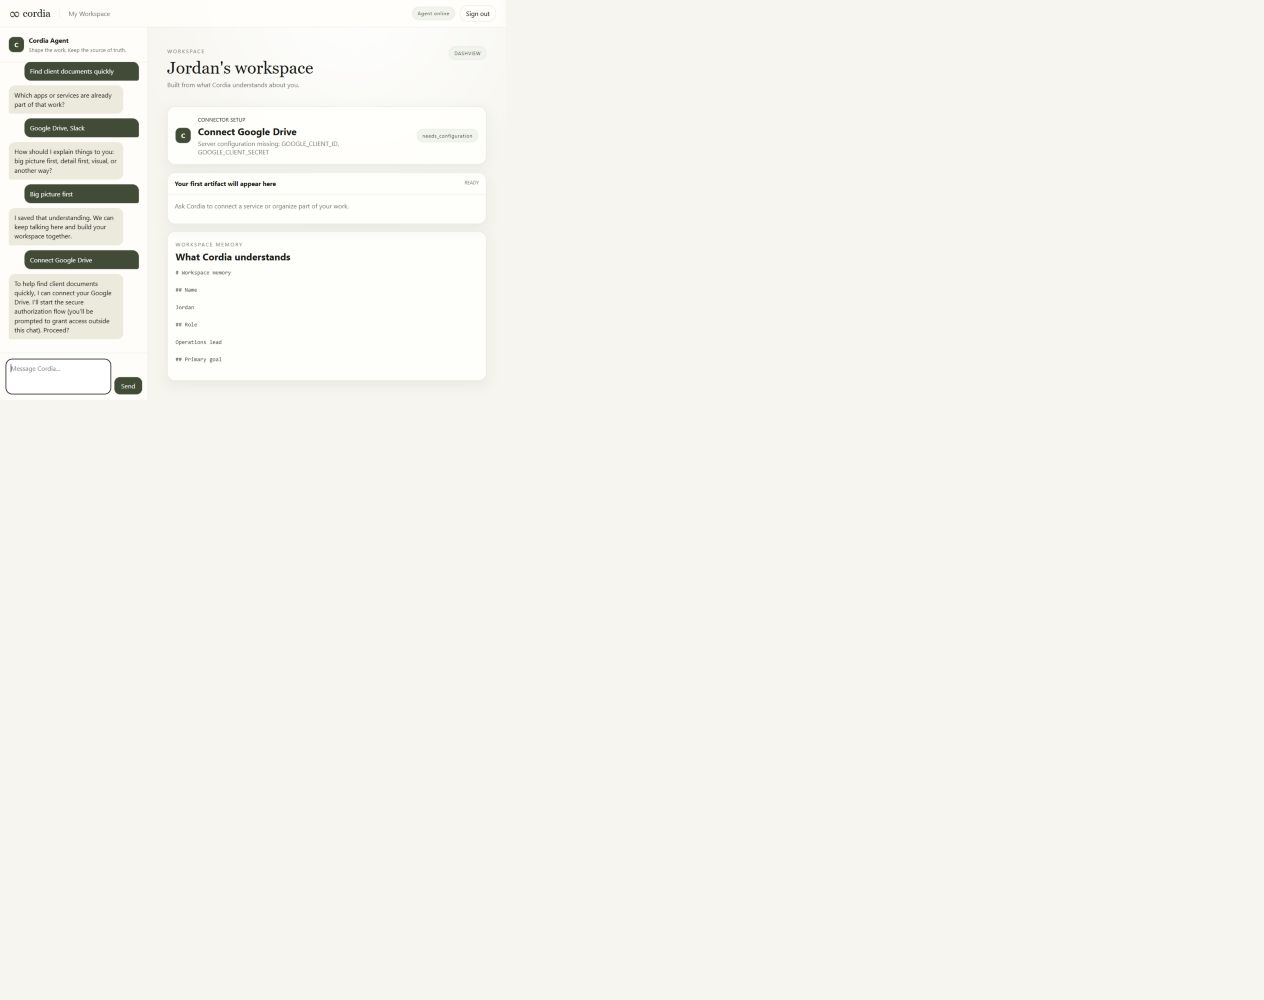
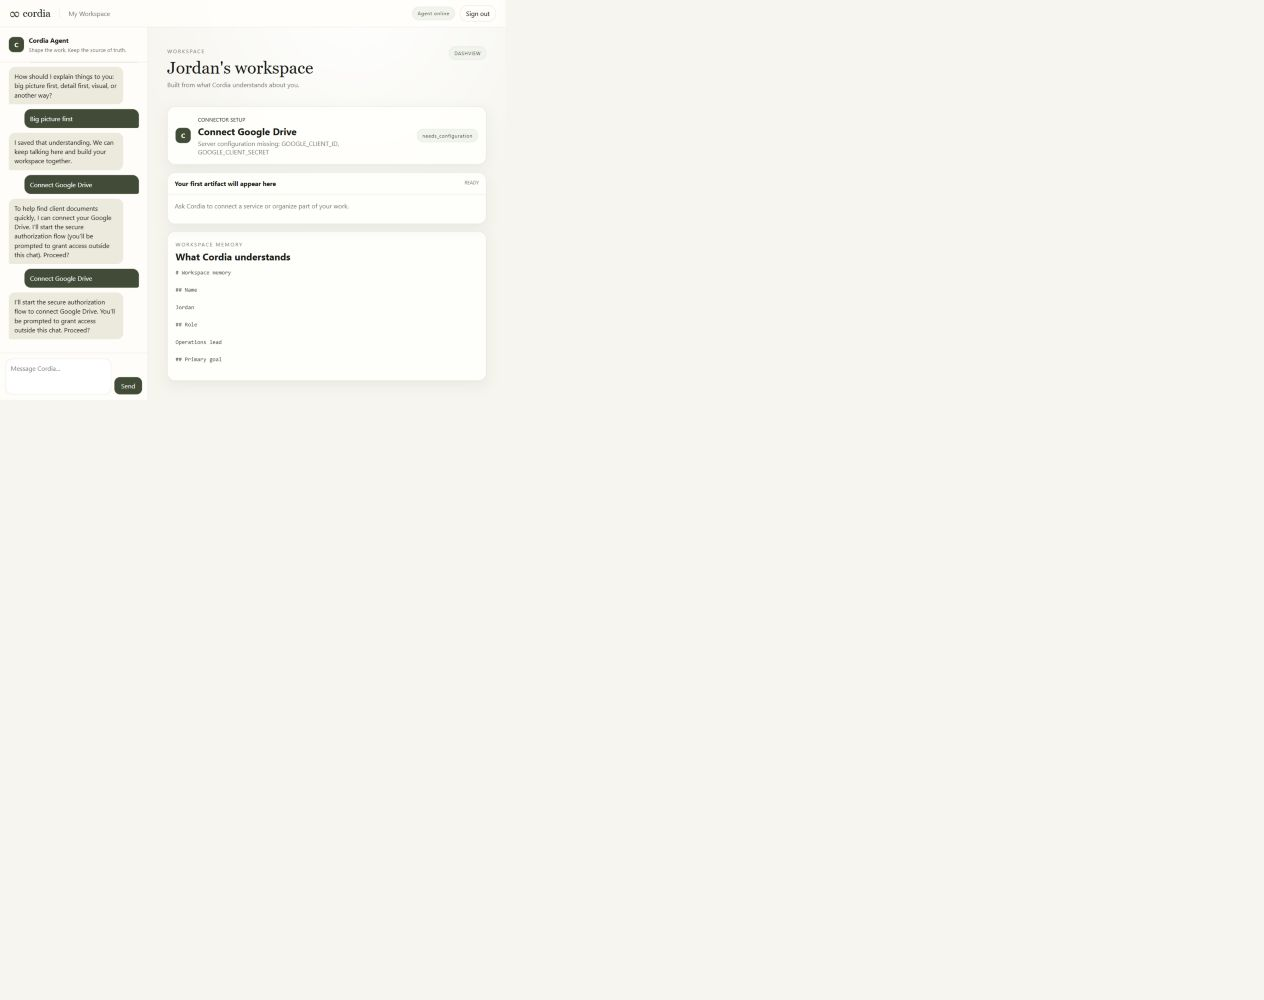
docs: record browser-verified Cordia Short state

Changed region(s): [[0.0, 0.062, 0.1234, 0.341]]

diff --git a/README.md b/README.md
@@ -14,6 +14,7 @@ Sign in -> Surveyor -> memory.md -> same Cordia Agent conversation
 - Registration, password authentication, sessions, Surveyor, readable workspace memory, continuous chat, generic setup cards, generic artifact windows, and sign-out are implemented.
 - A real OpenAI request through `cordia.agent.Agent` returned a valid `propose_connector` action for Google Drive.
 - The complete browser path was exercised from sign-in through all five Surveyor answers and the real agent request. The browser console had no errors.
+- The generic setup card persisted after a full page refresh; this was caught and fixed during browser verification.
 - Google Drive OAuth has not been completed with a real Google account because `GOOGLE_CLIENT_ID` and `GOOGLE_CLIENT_SECRET` are not configured. The application reports this explicitly and does not claim Drive is connected.
 - The automated suite contains 29 passing tests. Provider-network responses in connector tests are injected test evidence, not a live Google verification.
 
@@ -65,4 +66,3 @@ Restart the application. Sign in, complete Surveyor, and tell Cordia `Connect Go
 - Credentials are encrypted at rest and excluded from model input, memory, messages, artifacts, and responses.
 - Only Google Drive metadata read access is declared.
 - No deployment, billing, installer, Alidora, marketplace, or automation work belongs in this slice.
-

diff --git a/design-qa.md b/design-qa.md
@@ -23,6 +23,7 @@ Blocked for the same reason. The implemented chat rail, setup card, empty artifa
 - Observed the saved `memory.md` content in the workspace.
 - Sent `Connect Google Drive` through the real OpenAI-backed Cordia Agent.
 - Observed a generic connector setup card reporting `GOOGLE_CLIENT_ID` and `GOOGLE_CLIENT_SECRET` as missing.
+- Reloaded the full page and confirmed the setup card remained visible from persisted workspace state.
 - Checked browser warning and error logs: none observed.
 
 ## Findings
